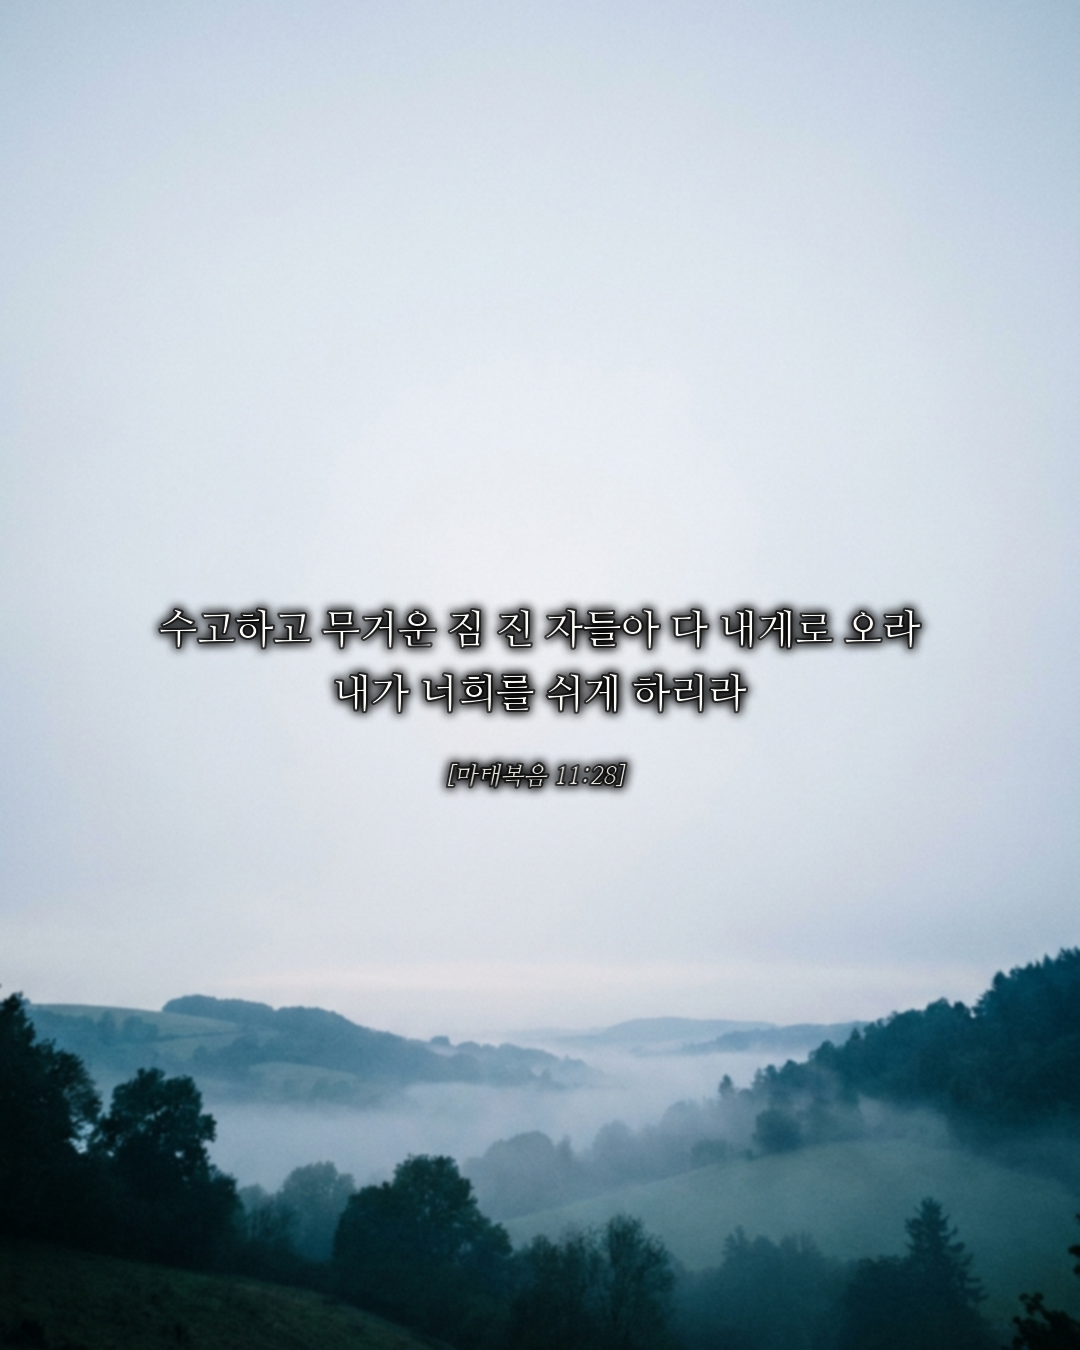
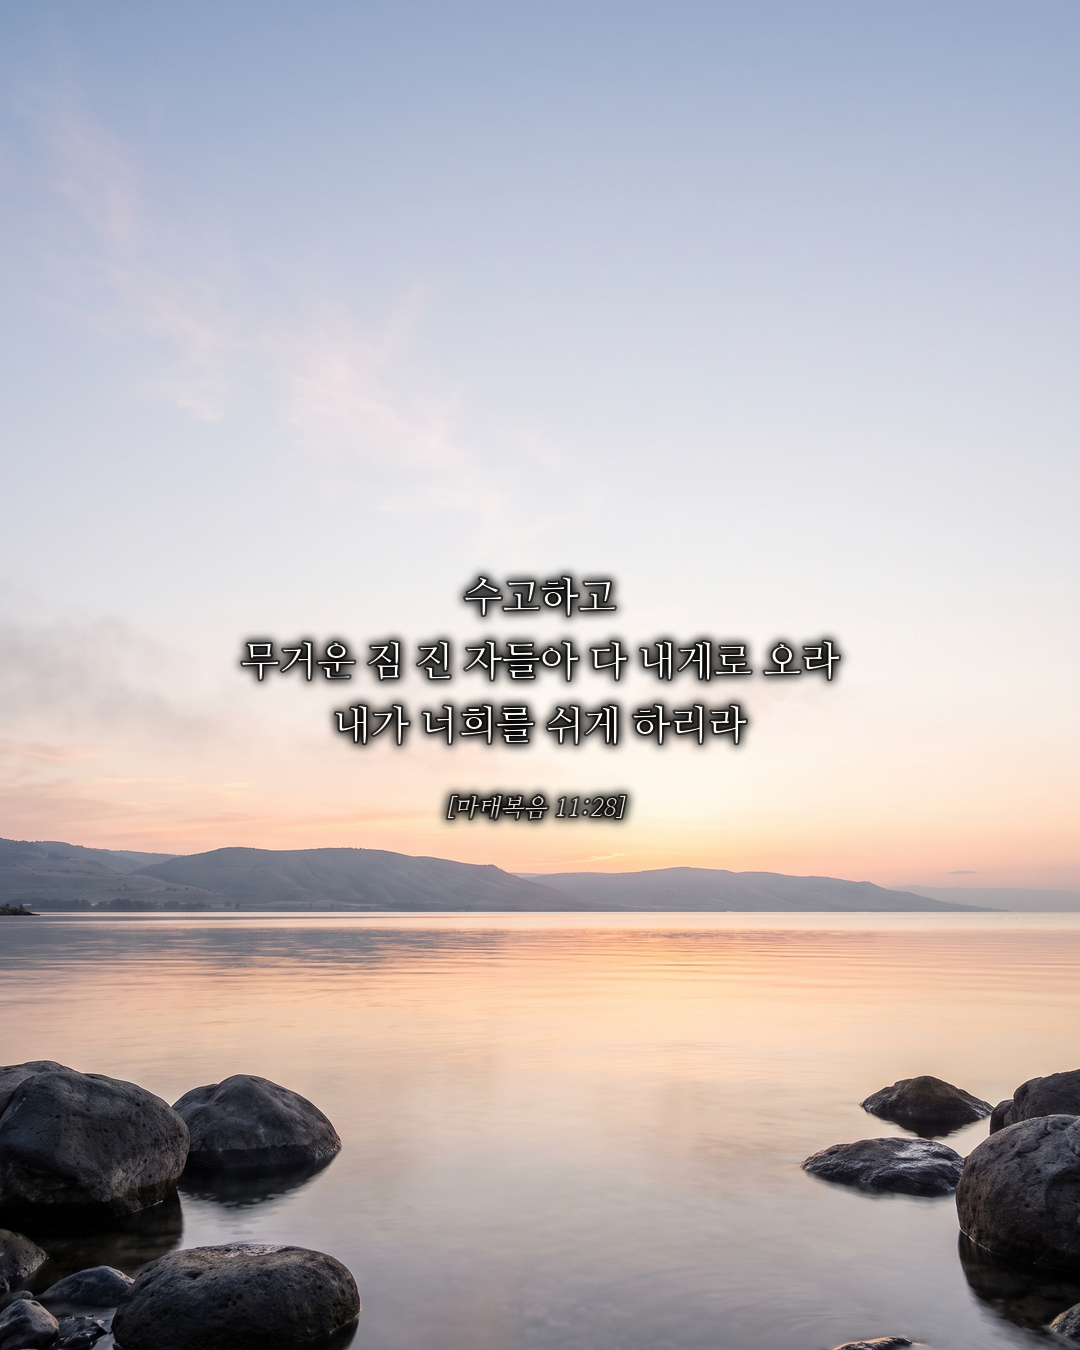
sharper hyperrealistic output: remove render blur + blur words, add 'hyperrealistic/extremely sharp', 2K generation; clause-aware multi-line split (시42:11→3 lines); anti-frame; new categories (bridge/rose/waterfall/moon/arch/chapel/harvest/lighthouse/communion/library)

diff --git a/docs/index.html b/docs/index.html
@@ -1,35 +1,18 @@
-<!doctype html><meta charset="utf-8"><meta name="viewport" content="width=device-width,initial-scale=1"><title>빛으로 미리보기</title><style>body{margin:0;background:#111;font-family:-apple-system,sans-serif}h2{color:#eee;padding:14px 12px 4px;margin:0;font-weight:600}p.sub{color:#888;padding:0 12px 12px;margin:0;font-size:13px}figure{margin:0 0 26px}img{width:100%;display:block}figcaption{color:#888;font-size:12px;padding:6px 12px}</style><h2>빛으로 · 미리보기</h2><p class="sub">맨 위가 최신 ↑</p><figure><img src="img/0035-예레미야_29-11.png" loading="lazy"><figcaption>0035-예레미야_29-11</figcaption></figure>
-<figure><img src="img/0034-고린도후서_5-17.png" loading="lazy"><figcaption>0034-고린도후서_5-17</figcaption></figure>
-<figure><img src="img/0033-시편_119-105.png" loading="lazy"><figcaption>0033-시편_119-105</figcaption></figure>
-<figure><img src="img/0032-이사야_26-3.png" loading="lazy"><figcaption>0032-이사야_26-3</figcaption></figure>
-<figure><img src="img/0031-시편_16-8.png" loading="lazy"><figcaption>0031-시편_16-8</figcaption></figure>
-<figure><img src="img/0030-시편_1-2.png" loading="lazy"><figcaption>0030-시편_1-2</figcaption></figure>
-<figure><img src="img/0029-시편_42-11.png" loading="lazy"><figcaption>0029-시편_42-11</figcaption></figure>
-<figure><img src="img/0028-갈라디아서_2-20.png" loading="lazy"><figcaption>0028-갈라디아서_2-20</figcaption></figure>
-<figure><img src="img/0027-잠언_3-6.png" loading="lazy"><figcaption>0027-잠언_3-6</figcaption></figure>
-<figure><img src="img/0026-히브리서_13-8.png" loading="lazy"><figcaption>0026-히브리서_13-8</figcaption></figure>
-<figure><img src="img/0025-이사야_41-10.png" loading="lazy"><figcaption>0025-이사야_41-10</figcaption></figure>
-<figure><img src="img/0024-갈라디아서_5-22.png" loading="lazy"><figcaption>0024-갈라디아서_5-22</figcaption></figure>
-<figure><img src="img/0023-마태복음_11-28.png" loading="lazy"><figcaption>0023-마태복음_11-28</figcaption></figure>
-<figure><img src="img/0022-빌립보서_4-6.png" loading="lazy"><figcaption>0022-빌립보서_4-6</figcaption></figure>
-<figure><img src="img/0021-시편_46-1.png" loading="lazy"><figcaption>0021-시편_46-1</figcaption></figure>
-<figure><img src="img/0020-빌립보서_4-7.png" loading="lazy"><figcaption>0020-빌립보서_4-7</figcaption></figure>
-<figure><img src="img/0019-시편_30-5.png" loading="lazy"><figcaption>0019-시편_30-5</figcaption></figure>
-<figure><img src="img/0018-갈라디아서_5-22.png" loading="lazy"><figcaption>0018-갈라디아서_5-22</figcaption></figure>
-<figure><img src="img/0017-잠언_4-23.png" loading="lazy"><figcaption>0017-잠언_4-23</figcaption></figure>
-<figure><img src="img/0016-시편_42-11.png" loading="lazy"><figcaption>0016-시편_42-11</figcaption></figure>
-<figure><img src="img/0015-시편_1-2.png" loading="lazy"><figcaption>0015-시편_1-2</figcaption></figure>
-<figure><img src="img/0014-시편_27-1.png" loading="lazy"><figcaption>0014-시편_27-1</figcaption></figure>
-<figure><img src="img/0013-빌립보서_4-6.png" loading="lazy"><figcaption>0013-빌립보서_4-6</figcaption></figure>
-<figure><img src="img/0012-이사야_40-8.png" loading="lazy"><figcaption>0012-이사야_40-8</figcaption></figure>
-<figure><img src="img/0011-시편_16-8.png" loading="lazy"><figcaption>0011-시편_16-8</figcaption></figure>
+<!doctype html><meta charset="utf-8"><meta name="viewport" content="width=device-width,initial-scale=1"><title>빛으로 미리보기</title><style>body{margin:0;background:#111;font-family:-apple-system,sans-serif}h2{color:#eee;padding:14px 12px 4px;margin:0;font-weight:600}p.sub{color:#888;padding:0 12px 12px;margin:0;font-size:13px}figure{margin:0 0 26px}img{width:100%;display:block}figcaption{color:#888;font-size:12px;padding:6px 12px}</style><h2>빛으로 · 미리보기</h2><p class="sub">맨 위가 최신 ↑</p><figure><img src="img/0018-시편_42-11.png" loading="lazy"><figcaption>0018-시편_42-11</figcaption></figure>
+<figure><img src="img/0017-시편_121-2.png" loading="lazy"><figcaption>0017-시편_121-2</figcaption></figure>
+<figure><img src="img/0016-빌립보서_4-6.png" loading="lazy"><figcaption>0016-빌립보서_4-6</figcaption></figure>
+<figure><img src="img/0015-시편_34-8.png" loading="lazy"><figcaption>0015-시편_34-8</figcaption></figure>
+<figure><img src="img/0014-예레미야_29-11.png" loading="lazy"><figcaption>0014-예레미야_29-11</figcaption></figure>
+<figure><img src="img/0013-이사야_43-2.png" loading="lazy"><figcaption>0013-이사야_43-2</figcaption></figure>
+<figure><img src="img/0012-시편_27-1.png" loading="lazy"><figcaption>0012-시편_27-1</figcaption></figure>
+<figure><img src="img/0011-시편_126-5.png" loading="lazy"><figcaption>0011-시편_126-5</figcaption></figure>
 <figure><img src="img/0010-마태복음_11-28.png" loading="lazy"><figcaption>0010-마태복음_11-28</figcaption></figure>
-<figure><img src="img/0009-시편_121-2.png" loading="lazy"><figcaption>0009-시편_121-2</figcaption></figure>
-<figure><img src="img/0008-잠언_3-5.png" loading="lazy"><figcaption>0008-잠언_3-5</figcaption></figure>
-<figure><img src="img/0007-빌립보서_4-13.png" loading="lazy"><figcaption>0007-빌립보서_4-13</figcaption></figure>
-<figure><img src="img/0006-이사야_41-10.png" loading="lazy"><figcaption>0006-이사야_41-10</figcaption></figure>
-<figure><img src="img/0005-시편_19-1.png" loading="lazy"><figcaption>0005-시편_19-1</figcaption></figure>
-<figure><img src="img/0004-시편_23-1.png" loading="lazy"><figcaption>0004-시편_23-1</figcaption></figure>
-<figure><img src="img/0003-디모데후서_1-7.png" loading="lazy"><figcaption>0003-디모데후서_1-7</figcaption></figure>
-<figure><img src="img/0002-요한복음_8-12.png" loading="lazy"><figcaption>0002-요한복음_8-12</figcaption></figure>
-<figure><img src="img/0001-시편_46-10.png" loading="lazy"><figcaption>0001-시편_46-10</figcaption></figure>
+<figure><img src="img/0009-이사야_41-10.png" loading="lazy"><figcaption>0009-이사야_41-10</figcaption></figure>
+<figure><img src="img/0008-갈라디아서_5-22.png" loading="lazy"><figcaption>0008-갈라디아서_5-22</figcaption></figure>
+<figure><img src="img/0007-시편_119-105.png" loading="lazy"><figcaption>0007-시편_119-105</figcaption></figure>
+<figure><img src="img/0006-히브리서_13-8.png" loading="lazy"><figcaption>0006-히브리서_13-8</figcaption></figure>
+<figure><img src="img/0005-갈라디아서_2-20.png" loading="lazy"><figcaption>0005-갈라디아서_2-20</figcaption></figure>
+<figure><img src="img/0004-시편_46-10.png" loading="lazy"><figcaption>0004-시편_46-10</figcaption></figure>
+<figure><img src="img/0003-빌립보서_4-13.png" loading="lazy"><figcaption>0003-빌립보서_4-13</figcaption></figure>
+<figure><img src="img/0002-시편_19-1.png" loading="lazy"><figcaption>0002-시편_19-1</figcaption></figure>
+<figure><img src="img/0001-시편_23-1.png" loading="lazy"><figcaption>0001-시편_23-1</figcaption></figure>

diff --git a/generate.py b/generate.py
@@ -150,13 +150,38 @@ def two_line_split(text):
     return [s for s in (" ".join(words[:k]), " ".join(words[k:])) if s]
 
 
+# STRICT clause endings for line breaks — real Korean phrase/clause finals only
+# (avoids false breaks like "나타나" → "나"). Order doesn't matter for endswith().
+_LINE_ENDERS = ("말미암아", "하리로다", "리로다", "이로다", "었도다", "도다", "로다", "느니라",
+                "니라", "으리라", "리라", "지어다", "이요", "으며", "하고", "하며", "거든",
+                "으되", "으니", "리니", "지라", "으라", "하라", "고", "며", "니", "라", "요", "면", "매")
+
+
+def clause_split(text):
+    """Split into lines at real Korean clause endings → natural phrase lines (2..n)."""
+    words = " ".join(text.split()).split(" ")
+    lines, cur = [], ""
+    for i, w in enumerate(words):
+        cur = w if not cur else cur + " " + w
+        if i < len(words) - 1 and len(w) >= 2 and w.endswith(_LINE_ENDERS):
+            lines.append(cur)
+            cur = ""
+    if cur:
+        lines.append(cur)
+    return lines
+
+
 def fit_verse(draw, text, max_w, size):
-    """FIXED font size for every verse (consistent look). Use a clean clause-aware
-    2-line split when it fits; otherwise wrap onto more lines — size never changes."""
+    """FIXED font size for every verse. Prefer natural clause lines (2–3); else a clean
+    2-line split; else greedy wrap — size never changes."""
     font = load_font(SERIF, size)
     line_h = int(size * 1.6)
+    fits = lambda lns: all(text_w(draw, ln, font) <= max_w for ln in lns)
+    clauses = clause_split(text)
+    if 2 <= len(clauses) <= 3 and fits(clauses):
+        return font, clauses, line_h, size
     two = two_line_split(text)
-    if len(two) <= 2 and all(text_w(draw, ln, font) <= max_w for ln in two):
+    if len(two) <= 2 and fits(two):
         return font, two, line_h, size
     return font, lines_for(draw, text, font, max_w), line_h, size
 
@@ -232,7 +257,7 @@ def render(verse, theme_name, handle, out_path, photo=None, canvas=FEED,
     else:                                      # bottom
         top_y = ch - my - block_h
     if photo:
-        base = cover_crop(Image.open(photo), cw, ch).filter(ImageFilter.GaussianBlur(1.2))
+        base = cover_crop(Image.open(photo), cw, ch)         # keep the photo crisp (no blur)
         fg, shadow_c, busy = (252, 250, 246), (0, 0, 0), 0   # ALWAYS white text + dark scrim → legible on any bg
     else:
         theme = THEMES.get(theme_name, THEMES["ivory"])

diff --git a/fetch_higgsfield.py b/fetch_higgsfield.py
@@ -71,17 +71,29 @@ SCENES = [
     "fresh green spring blossoms and new leaves against a soft open sky",
     "a peaceful garden path among soft flowers in gentle morning light",
     "a gentle rainbow arching over a calm landscape after the rain",
+    # more categories
+    "an elegant old stone bridge over a calm river under a soft open sky",
+    "a soft rose garden in gentle morning light with open sky above",
+    "a gentle waterfall in a lush green forest with soft mist",
+    "a calm moonlit night sky over a quiet low landscape",
+    "an old stone archway opening to soft golden light beyond",
+    "the bright open interior of a simple whitewashed chapel with soft daylight",
+    "a golden harvest field at sunset, low horizon",
+    "a white lighthouse on a cliff above the sea under a soft sky",
+    "a simple still life of bread and a plain cup on a wooden table, soft window light",
+    "a warm sunlit reading nook by a bright tall window",
 ]
 REGION = {
     ("center", "middle"): "the central area",
     ("left", "middle"): "the left side",
     ("right", "middle"): "the right side",
 }
-QUALITY = ("Shot as a real photograph on a full-frame camera with natural light — candid and "
-           "true to life, with natural colours, fine grain and natural depth of field. It looks "
-           "like a genuine photo, not a render or illustration.")
+QUALITY = ("Hyperrealistic photograph, shot on a full-frame camera with natural light — extremely "
+           "sharp and crisp, in sharp focus front to back, with fine true-to-life detail, high "
+           "resolution and natural colours. A genuine professional photo, not a render or illustration.")
 NOTEXT = ("There are no people anywhere. The image contains absolutely no text, letters, words, "
-          "captions, numbers, signs, watermark or logo of any kind.")
+          "captions, numbers, signs, watermark or logo of any kind. The photograph fills the whole "
+          "frame edge to edge — no border, no inner frame, no matte, no vignette box.")
 
 
 def _credentials():
@@ -142,7 +154,7 @@ def _gemini_key():
 def _gemini(prompt, dest, aspect="3:4"):
     """Nano Banana Pro (Gemini 3 Pro Image) → save image to dest."""
     body = {"contents": [{"parts": [{"text": prompt}]}],
-            "generationConfig": {"imageConfig": {"aspectRatio": aspect}}}
+            "generationConfig": {"imageConfig": {"aspectRatio": aspect, "imageSize": "2K"}}}
     url = (f"https://generativelanguage.googleapis.com/v1beta/models/"
            f"{GEMINI_MODEL}:generateContent?key={_gemini_key()}")
     req = urllib.request.Request(url, data=json.dumps(body).encode(),